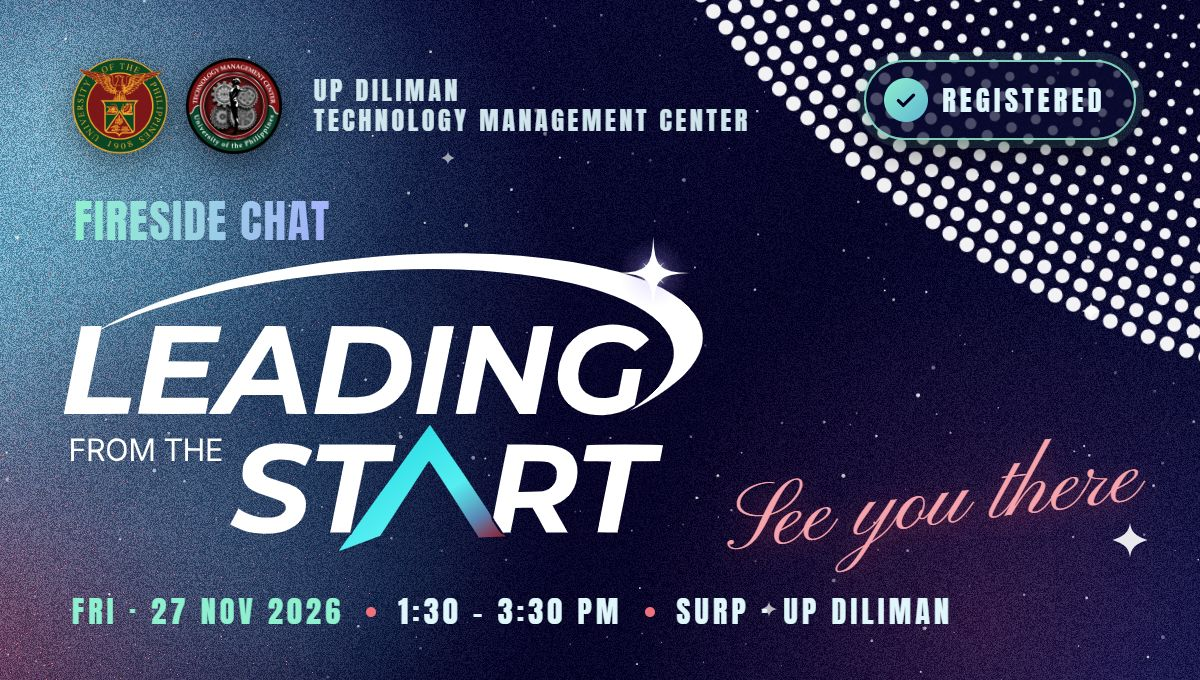
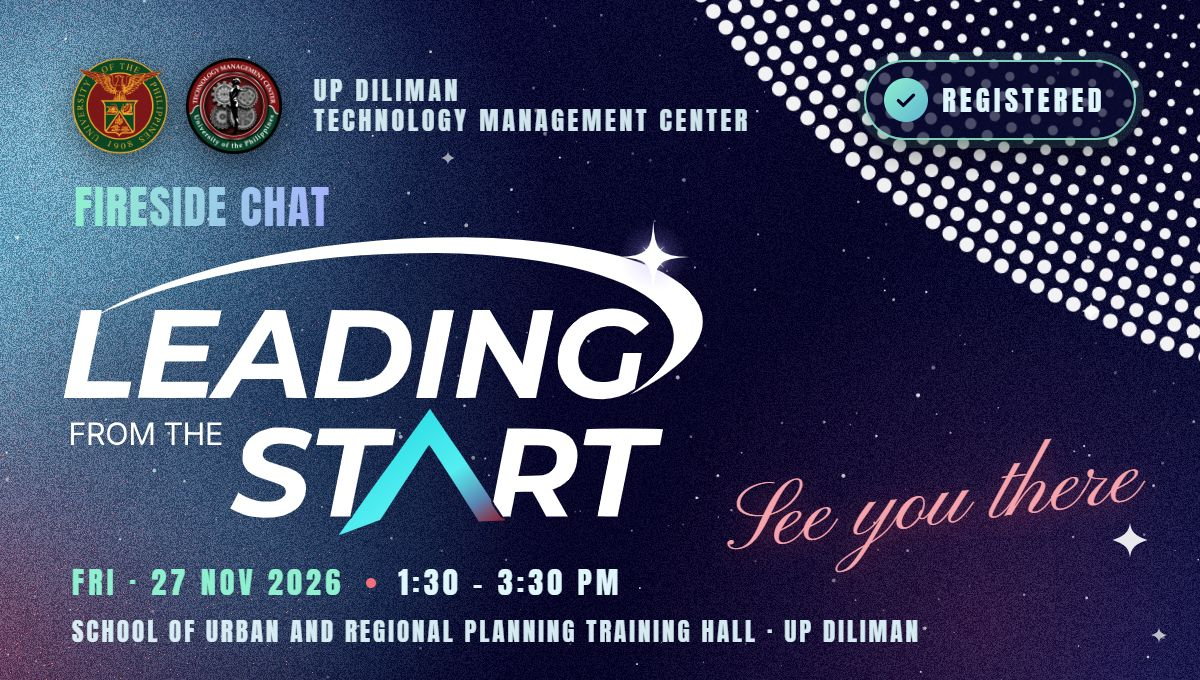
Spell out the venue: School of Urban and Regional Planning Training Hall
The venue is now the full "School of Urban and Regional Planning
Training Hall" everywhere, with no "SURP" left: the venue card, the
boarding pass gate (now its own row, allowed to wrap), the email pass
and header art (venue on its own line under the date and time), the
calendar invite and the dashboard. The map link still searches for the
building alone.

Changed region(s): [[0.0308, 0.2779, 0.5858, 0.8029], [0.0617, 0.8338, 0.8017, 0.9574], [0.9558, 0.9265, 0.9867, 0.9574]]

diff --git a/lib/email/template.ts b/lib/email/template.ts
@@ -122,7 +122,7 @@ export function renderTicketEmail(d: TicketEmailData, o: RenderOptions) {
 
   <!-- header artwork -->
   <tr><td style="padding:0;background:${C.card};border-radius:24px 24px 0 0;" bgcolor="${C.card}">
-    <img src="${o.src('hero')}" width="600" alt="Fireside Chat: Leading from the Start. Registered. Friday, 27 November 2026, 1:30 to 3:30 PM, SURP, UP Diliman. See you there!" style="display:block;width:100%;max-width:600px;height:auto;border:0;border-radius:24px 24px 0 0;color:${C.ink2};font-family:${BODY};font-size:16px;">
+    <img src="${o.src('hero')}" width="600" alt="Fireside Chat: Leading from the Start. Registered. Friday, 27 November 2026, 1:30 to 3:30 PM, ${esc(EVENT.venue)}, UP Diliman. See you there!" style="display:block;width:100%;max-width:600px;height:auto;border:0;border-radius:24px 24px 0 0;color:${C.ink2};font-family:${BODY};font-size:16px;">
   </td></tr>
 
   <!-- greeting -->
@@ -154,9 +154,10 @@ export function renderTicketEmail(d: TicketEmailData, o: RenderOptions) {
       </td></tr>
       <tr><td class="pass-px" style="padding:14px 22px 18px;">
         <table role="presentation" width="100%" cellpadding="0" cellspacing="0" border="0" style="border-top:1px solid ${C.line};"><tr>
-          <td class="meta-td" valign="top" width="31%" style="padding-top:14px;">${label('Date')}<div style="font-family:${DISPLAY};font-size:17px;line-height:22px;letter-spacing:.6px;text-transform:uppercase;color:${C.ink};white-space:nowrap;">${esc(EVENT.dateShort)}</div></td>
-          <td class="meta-td" valign="top" width="27%" style="padding-top:14px;">${label('Boarding')}<div style="font-family:${DISPLAY};font-size:17px;line-height:22px;letter-spacing:.6px;text-transform:uppercase;color:${C.ink};white-space:nowrap;">${esc(startTime)}</div></td>
-          <td class="meta-td" valign="top" style="padding-top:14px;">${label('Gate')}<div style="font-family:${DISPLAY};font-size:17px;line-height:22px;letter-spacing:.6px;text-transform:uppercase;color:${C.ink};">SURP &middot; UP Diliman</div></td>
+          <td class="meta-td" valign="top" width="50%" style="padding-top:14px;">${label('Date')}<div style="font-family:${DISPLAY};font-size:17px;line-height:22px;letter-spacing:.6px;text-transform:uppercase;color:${C.ink};white-space:nowrap;">${esc(EVENT.dateShort)}</div></td>
+          <td class="meta-td" valign="top" width="50%" style="padding-top:14px;">${label('Boarding')}<div style="font-family:${DISPLAY};font-size:17px;line-height:22px;letter-spacing:.6px;text-transform:uppercase;color:${C.ink};white-space:nowrap;">${esc(startTime)}</div></td>
+        </tr><tr>
+          <td class="meta-td" valign="top" colspan="2" style="padding-top:12px;">${label('Gate')}<div style="font-family:${DISPLAY};font-size:17px;line-height:22px;letter-spacing:.6px;text-transform:uppercase;color:${C.ink};">${esc(EVENT.venue)} &middot; <span style="white-space:nowrap;">UP Diliman</span></div></td>
         </tr></table>
       </td></tr>
       <!-- tear line -->

diff --git a/lib/config.ts b/lib/config.ts
@@ -12,7 +12,9 @@ export const EVENT = {
   /** Philippine time (UTC+8). Used by the countdown and the calendar invite. */
   startsAt: '2026-11-27T13:30:00+08:00',
   endsAt: '2026-11-27T15:30:00+08:00',
-  venue: 'School of Urban and Regional Planning',
+  venue: 'School of Urban and Regional Planning Training Hall',
+  /** The building alone, for the map search. */
+  venueBuilding: 'School of Urban and Regional Planning',
   venueCampus: 'University of the Philippines Diliman, Quezon City',
   organizer: 'UP Diliman Technology Management Center',
   tagline: 'Leading Innovation. Shaping the Nation’s Future.',

diff --git a/app/globals.css b/app/globals.css
@@ -2496,6 +2496,21 @@ a {
   white-space: nowrap;
 }
 
+/* The venue is spelled out in full, so the gate takes its own row under Date and Boarding
+   and may wrap; "UP Diliman" stays together. */
+.pass-meta .pass-gate {
+  grid-column: 1 / -1;
+}
+
+.pass-meta .pass-gate dd {
+  white-space: normal;
+  line-height: 1.3;
+}
+
+.pass-meta .pass-gate dd span {
+  white-space: nowrap;
+}
+
 .pass-stub {
   position: relative;
   display: flex;
@@ -3478,10 +3493,6 @@ a {
 
   .pass-meta {
     grid-template-columns: auto auto;
-  }
-
-  .pass-meta .pass-gate {
-    grid-column: 1 / -1;
   }
 
   .pass-name {

diff --git a/components/form/MissionPass.tsx b/components/form/MissionPass.tsx
@@ -83,7 +83,9 @@ export function MissionPass({ data, refNo }: PassProps) {
             </div>
             <div className="pass-gate">
               <dt>Gate</dt>
-              <dd>SURP · UP Diliman</dd>
+              <dd>
+                {EVENT.venue} · <span>UP Diliman</span>
+              </dd>
             </div>
           </dl>
         </div>

diff --git a/lib/ics.ts b/lib/ics.ts
@@ -54,4 +54,4 @@ export function googleCalendarUrl(siteUrl: string) {
 }
 
 export const mapsUrl = () =>
-  `https://www.google.com/maps/search/?api=1&query=${encodeURIComponent(`${EVENT.venue}, UP Diliman, Quezon City`)}`;
+  `https://www.google.com/maps/search/?api=1&query=${encodeURIComponent(`${EVENT.venueBuilding}, UP Diliman, Quezon City`)}`;

diff --git a/README.md b/README.md
@@ -2,7 +2,7 @@
 
 Registration form and results dashboard for the **TM241 Fireside Chat: Leading from the Start —
 Lessons in Building Strategic Technology Capabilities for National Development**
-(Friday, November 27, 2026 · 1:30–3:30 PM · School of Urban and Regional Planning, UP Diliman),
+(Friday, November 27, 2026 · 1:30–3:30 PM · School of Urban and Regional Planning Training Hall, UP Diliman),
 organized by the TM241 class of the UP Diliman Technology Management Center.
 
 - **`/`** — galaxy-themed splash screen (hyperspace star field, orbiting UP and TMC seals, the title
